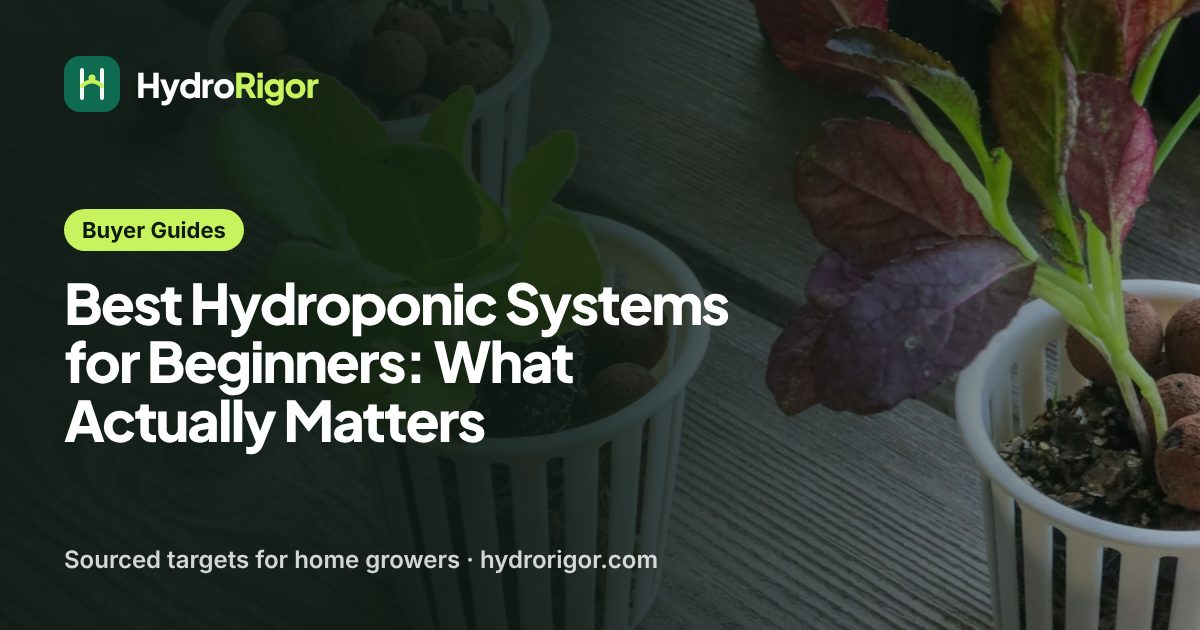
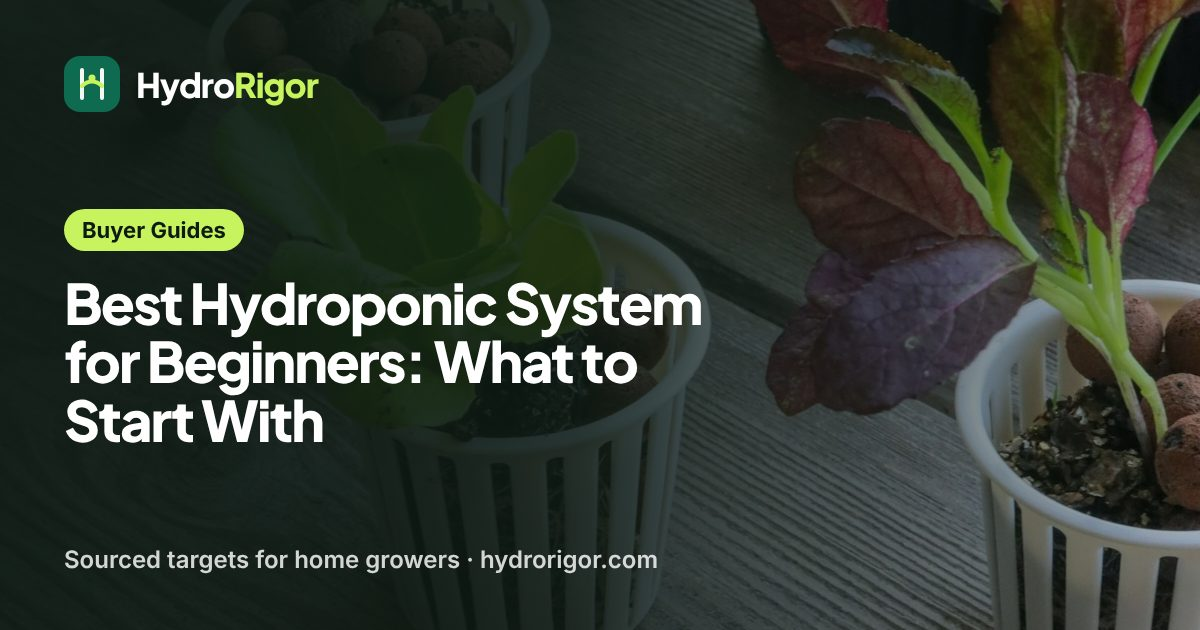
Rebuild beginners guide: Kratky-first, systems ranked by forgiveness
Queue item 14. Title "Best Hydroponic System for Beginners: What to Start
With"; 2,440 words; two phone-size diagrams; buy-or-build table, parts
list, first-grow steps, mistakes table and FAQ; 10 registered sources.

Claude-Session: https://claude.ai/code/session_011zSWQv9U5GfhByfPKZnqmb

Changed region(s): [[0.0308, 0.6333, 0.4008, 0.7238], [0.4625, 0.5429, 0.555, 0.6333], [0.5858, 0.4524, 0.6167, 0.5127]]

diff --git a/src/data/m06-content.ts b/src/data/m06-content.ts
@@ -19,7 +19,7 @@ export interface M06ContentItem {
 
 const items = [
   [1, 'articles', 'systems', 'Indoor Hydroponic Systems for Home: 6 Types Compared', 'indoor-hydroponic-systems-for-home', 'commercial research', 'indoor hydroponic system', 'VERIFIED_2026-09-12', 2900, 33, ['ifas-kratky-set-and-forget', 'osu-hydro-hints-overview', 'osu-hydro-hints-dwc', 'osu-hydro-hints-buckets', 'osu-hydro-hints-nft', 'osu-hydro-hints-ebb-flow', 'okstate-hydroponics-hla6442', 'okstate-vertical-tower-hla6724', 'touliatos-vertical-lettuce-2016', 'vt-system-crop-comparisons', 'uky-hydroponic-lettuce', 'purdue-supplemental-light-lettuce', 'ifas-lettuce-small-systems', 'illinois-hydroponics-at-home', 'tennessee-fruiting-crops', 'osu-ph-ec-guide', 'mu-hydroponic-farming', 'uga-home-hydroponics'], ['/tools/ph-ec-targets/', '/tools/nutrient-mixing-calculator/']],
-  [2, 'articles', 'best', 'Best Hydroponic Systems for Beginners: What Actually Matters', 'hydroponic-systems-for-beginners', 'commercial research', 'best hydroponic system for beginners', 'METRIC_NOT_REVERIFIED', undefined, undefined, ['mu-hydroponic-farming', 'uga-home-hydroponics'], []],
+  [2, 'articles', 'best', 'Best Hydroponic System for Beginners: What to Start With', 'hydroponic-systems-for-beginners', 'commercial research', 'best hydroponic system for beginners', 'METRIC_NOT_REVERIFIED', undefined, undefined, ['ifas-kratky-set-and-forget', 'kratky-noncirculating-lettuce', 'uky-hydroponic-lettuce', 'vt-system-crop-comparisons', 'osu-hydro-hints-overview', 'osu-hydro-hints-dwc', 'osu-hydro-hints-nft', 'illinois-hydroponics-at-home', 'mu-nutrient-solutions', 'okstate-hydroponics-hla6442'], ['/tools/ph-ec-targets/', '/tools/nutrient-mixing-calculator/']],
   [3, 'articles', 'best', 'Indoor Hydroponic System Kits: What to Buy and What to Skip', 'indoor-hydroponic-system-kits', 'transactional research', 'indoor hydroponic system kit', 'METRIC_NOT_REVERIFIED', undefined, undefined, ['uga-home-hydroponics', 'unh-home-hydroponics'], []],
   [4, 'articles', 'systems', 'Deep Water Culture Hydroponics: DWC Setup, Oxygen & pH', 'deep-water-culture-hydroponics', 'transactional research', 'hydroponic system deep water culture', 'METRIC_NOT_REVERIFIED', undefined, undefined, ['osu-hydro-hints-dwc', 'vt-system-crop-comparisons', 'ifas-lettuce-small-systems', 'uky-hydroponic-lettuce', 'illinois-hydroponics-at-home', 'cornell-cea-lettuce-handbook', 'ifas-volusia-dwc-bucket', 'osu-ph-ec-guide', 'kratky-noncirculating-lettuce', 'mu-hydroponic-farming'], ['/tools/ph-ec-targets/', '/tools/nutrient-mixing-calculator/']],
   [5, 'articles', 'systems', 'DIY Hydroponic System for Beginners: 3 Builds, Step by Step', 'diy-hydroponic-system-for-beginners', 'informational', 'do it yourself hydroponic system', 'METRIC_NOT_REVERIFIED', undefined, undefined, ['ifas-kratky-set-and-forget', 'kratky-noncirculating-lettuce', 'illinois-hydroponics-at-home', 'ifas-volusia-dwc-bucket', 'osu-hydro-hints-dwc', 'osu-hydro-hints-buckets', 'osu-hydro-hints-nft', 'vt-system-crop-comparisons', 'okstate-hydroponics-hla6442'], ['/tools/nutrient-mixing-calculator/', '/tools/ph-ec-targets/']],

diff --git a/.agent/state/CURRENT_HANDOFF.md b/.agent/state/CURRENT_HANDOFF.md
@@ -78,6 +78,9 @@ Updated: 2026-11-11
 Guides published by automated runs under `HydroRigor Editorial`. When Najeeb has read one
 and approves, switch its byline to `Najeeb`.
 
+- `/best/hydroponic-systems-for-beginners/` (rebuilt 2026-11-12; Pinterest row `docs/marketing/pinterest/pins-beginners-2026-11-13.csv`): Kratky-first answer, systems ranked by
+  what happens when something goes wrong, buy-or-build table, first-grow timeline, 10 sources.
+
 - `/best/hydroponic-systems-for-sale/` — "Hydroponic Systems for Sale: 9 Checks Before You Buy" (rebuild, 2026-11-11). Nine buyer checks (system type by crop, power-cut behavior, light as DLI from PPFD, real capacity, reservoir size, extras not in the box, electricity from watts, convenience claims, buying used), a step-by-step, troubleshooting and FAQ, with two new diagrams (three listing checks; in the box versus extras). No products, sellers or current prices. New sources, taken from the pH-meter research pack (read 2026-11-07): UMass Extension pH/EC pens (Cox, 2016), Michigan State Extension meter calibration (Wollaeger, 2016) and Purdue OFA Bulletin 917 (Camberato and Lopez, 2009). Reused: Oregon State EM 9453/9455–9458, UF/IFAS HS1488 and HS1422, Kentucky CCD-CP-63, Purdue HO-283-W, Oklahoma State HLA-6722/6724, Tennessee W 844-C, Illinois, Virginia Tech SPES-466, Touliatos et al. 2016, Missouri, UGA, UNH. Notes: (1) web pages could not be opened in this run (fetch permission timed out), so every figure comes from registered sources or the pack; (2) the only prices are dated and labelled (UMass 2016 meter pens $50–60, combo about $80; Oklahoma State 2021 tower around $500 or more); (3) no source here gives a disinfectant strength for cleaning a used system or a meter accuracy figure, and the page says so; (4) the electricity and capacity examples are labelled arithmetic. Photo kept (registry tower under pink LEDs). Pinterest row: `docs/marketing/pinterest/pins-systems-for-sale-2026-11-11.csv`.
 
 ## Next agent instruction

diff --git a/.agent/state/CURRENT_MILESTONE.md b/.agent/state/CURRENT_MILESTONE.md
@@ -78,7 +78,7 @@ impressions in 28 days).
 12. [x] `/crops/hydroponic-tomatoes/` — rebuilt 2026-11-10 ("Hydroponic Tomatoes: pH, EC, Light, Spacing & Pruning"). hydroponic tomatoes (1,900, difficulty 29).
 13. [x] `/best/hydroponic-systems-for-sale/` — rebuilt 2026-11-11 ("Hydroponic Systems for Sale: 9 Checks Before You Buy"). "hydroponic system sale" 1,600 / 24;
         "hydroponic system for sale" 1,300 / 28.
-14. [ ] `/best/hydroponic-systems-for-beginners/` — rebuild. Search Console: 6 impressions, position 46.5.
+14. [x] `/best/hydroponic-systems-for-beginners/` — rebuilt 2026-11-12 ("Best Hydroponic System for Beginners: What to Start With"). Search Console: 6 impressions, position 46.5.
 15. [ ] `/crops/hydroponic-lettuce-systems/` — rebuild. "nutrient film hydroponic system" 1,300 / 30;
         hydroponic lettuce systems (1,000, difficulty 28).
 16. [ ] `/nutrients-water/hydroponic-nutrient-solution/` — rebuild. "hydroponic nutrients solution" 720 / 25.

diff --git a/docs/research/search-console/log.md b/docs/research/search-console/log.md
@@ -16,6 +16,7 @@ Figures are copied from Search Console (web search, last 28 days unless noted); 
 
 | Shipped | Page | Change | Check after |
 | --- | --- | --- | --- |
+| 2026-11-12 | /best/hydroponic-systems-for-beginners/ | Full rebuild (Kratky-first, 2 diagrams, 10 sources); before: 6 impressions, position 46.5 | 2026-11-26, 2026-12-10 |
 | 2026-11-09 | /crops/hydroponic-basil/ | New guide (hydroponic basil 880 / 11) | 2026-11-23, 2026-12-07 |
 | 2026-11-09 | /best/hydroponic-system-for-home-growers/ | Strengthening pass: crop-by-crop answer first, trial yields in the "most effective" FAQ, equipment table by system, kit and equipment FAQs, 2 new inbound links; before: 32 impressions, position 15.5 (Nov 1–7) | 2026-11-23, 2026-12-07 |
 | 2026-11-08 | /systems/indoor-hydroponic-systems-for-home/ | Full rebuild (#42, 6 types compared); before: 4 impressions, position 82.8 (Nov 1–6) | 2026-11-22, 2026-12-06 |
